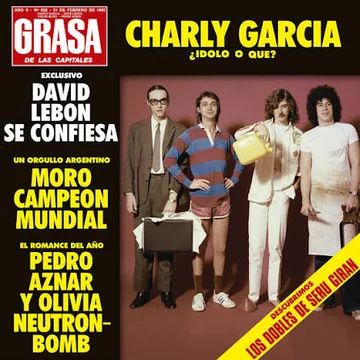
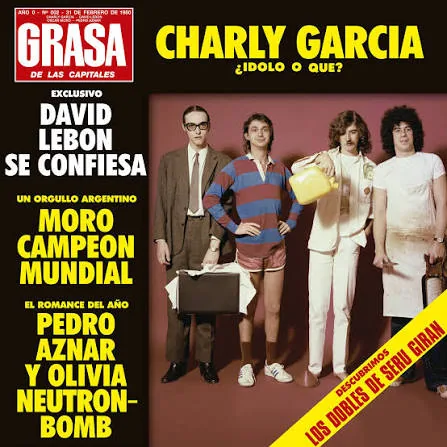
Portadas a todo el ancho y firma sin tapar botones
Películas, discos y libros ocupan todo el ancho de la columna en tres filas con portadas de igual altura por fila, con imágenes regeneradas a mayor resolución. En el pie de Sobre mí los botones reservan el ancho de la firma para que no la tape en el teléfono.

diff --git a/otras-cosas.html b/otras-cosas.html
@@ -22,7 +22,7 @@
 <link rel="preconnect" href="https://fonts.googleapis.com">
 <link rel="preconnect" href="https://fonts.gstatic.com" crossorigin>
 <link href="https://fonts.googleapis.com/css2?family=Geist:wght@400;500;600;700&family=Geist+Mono:wght@400;500;600&display=swap" rel="stylesheet">
-<link rel="stylesheet" href="assets/site.css?v=4">
+<link rel="stylesheet" href="assets/site.css?v=5">
 </head>
 <body data-page="otras-cosas">
 
@@ -102,31 +102,31 @@
         <div class="shelf-group">
           <h2 class="shelf-label">Películas</h2>
           <ul class="shelf">
-            <li><figure><img src="images/gustos/el-padrino.webp" alt="" width="243" height="360" loading="lazy"><figcaption>El Padrino</figcaption></figure></li>
-            <li><figure><img src="images/gustos/into-the-wild.webp" alt="" width="244" height="360" loading="lazy"><figcaption>Into the Wild</figcaption></figure></li>
-            <li><figure><img src="images/gustos/rocky.webp" alt="" width="237" height="360" loading="lazy"><figcaption>Rocky</figcaption></figure></li>
+            <li style="--r:675"><figure><img src="images/gustos/el-padrino.webp" alt="" width="405" height="600" loading="lazy"><figcaption>El Padrino</figcaption></figure></li>
+            <li style="--r:678"><figure><img src="images/gustos/into-the-wild.webp" alt="" width="407" height="600" loading="lazy"><figcaption>Into the Wild</figcaption></figure></li>
+            <li style="--r:658"><figure><img src="images/gustos/rocky.webp" alt="" width="395" height="600" loading="lazy"><figcaption>Rocky</figcaption></figure></li>
           </ul>
         </div>
         <div class="shelf-group">
           <h2 class="shelf-label">Discos</h2>
           <ul class="shelf">
-            <li><figure><img src="images/gustos/la-grasa-de-las-capitales.webp" alt="" width="360" height="360" loading="lazy"><figcaption>La grasa de las capitales</figcaption></figure></li>
-            <li><figure><img src="images/gustos/dark-side-of-the-moon.webp" alt="" width="360" height="360" loading="lazy"><figcaption>The Dark Side of the Moon</figcaption></figure></li>
-            <li><figure><img src="images/gustos/after-chabon.avif" alt="" width="640" height="640" loading="lazy"><figcaption>After Chabón</figcaption></figure></li>
+            <li style="--r:1000"><figure><img src="images/gustos/la-grasa-de-las-capitales.webp" alt="" width="447" height="447" loading="lazy"><figcaption>La grasa de las capitales</figcaption></figure></li>
+            <li style="--r:1000"><figure><img src="images/gustos/dark-side-of-the-moon.webp" alt="" width="450" height="450" loading="lazy"><figcaption>The Dark Side of the Moon</figcaption></figure></li>
+            <li style="--r:1000"><figure><img src="images/gustos/after-chabon.avif" alt="" width="640" height="640" loading="lazy"><figcaption>After Chabón</figcaption></figure></li>
           </ul>
         </div>
         <div class="shelf-group">
           <h2 class="shelf-label">Libros</h2>
           <ul class="shelf">
-            <li><figure><img src="images/gustos/el-hombre-mediocre.webp" alt="" width="257" height="360" loading="lazy"><figcaption>El hombre mediocre</figcaption></figure></li>
-            <li><figure><img src="images/gustos/recuerdos-de-un-medico-rural.webp" alt="" width="243" height="360" loading="lazy"><figcaption>Recuerdos de un médico rural</figcaption></figure></li>
-            <li><figure><img src="images/gustos/el-inversor-inteligente.webp" alt="" width="238" height="360" loading="lazy"><figcaption>El inversor inteligente</figcaption></figure></li>
+            <li style="--r:713"><figure><img src="images/gustos/el-hombre-mediocre.webp" alt="" width="428" height="600" loading="lazy"><figcaption>El hombre mediocre</figcaption></figure></li>
+            <li style="--r:673"><figure><img src="images/gustos/recuerdos-de-un-medico-rural.webp" alt="" width="404" height="600" loading="lazy"><figcaption>Recuerdos de un médico rural</figcaption></figure></li>
+            <li style="--r:661"><figure><img src="images/gustos/el-inversor-inteligente.webp" alt="" width="238" height="360" loading="lazy"><figcaption>El inversor inteligente</figcaption></figure></li>
           </ul>
         </div>
       </div>
     </main>
 
-    <footer class="reveal">
+    <footer class="reveal signed">
       <hr>
       <div class="footer-actions">
         <button class="ghost-btn magnetic" id="vcard-btn">Guardar contacto</button>

diff --git a/assets/site.css b/assets/site.css
@@ -206,24 +206,32 @@ article + article{margin-top:1.7rem;}
   .split-side{float:right;width:340px;max-width:none;margin:0 0 1rem 2rem;}
 }
 
-/* películas, discos y libros: tres filas, todas las portadas a la misma altura */
+/* películas, discos y libros: tres filas de tres portadas. Cada fila ocupa todo el ancho de la columna, de línea a línea
+   como el texto (640px en pantalla grande, el ancho menos los 24px de margen en el teléfono), y las portadas de una
+   misma fila tienen la misma altura. El ancho de cada portada es proporcional a su relación ancho/alto (--r, x1000, en
+   el style de cada li), así que a igual altura la fila queda justo del ancho de la columna. Las filas de películas y
+   libros quedan más altas que la de discos porque los discos son cuadrados y con tres alcanza el ancho antes. */
 .gustos{margin-top:2.4rem;clear:both;}
 .shelf-group + .shelf-group{margin-top:1.9rem;}
 .shelf-label{
   font-family:var(--font-mono);font-size:.74rem;font-weight:500;letter-spacing:.08em;
   text-transform:uppercase;color:var(--ink-faint);margin:0 0 .8rem;
 }
-.shelf{
-  --h:min(170px, calc((100vw - 48px - 2rem) / 3));
-  list-style:none;margin:0;padding:0;display:flex;align-items:flex-start;gap:1rem;
-}
-.shelf figure{margin:0;width:min-content;}
-.shelf img{display:block;height:var(--h);width:auto;border-radius:6px;border:1px solid var(--line);}
+.shelf{list-style:none;margin:0;padding:0;display:flex;align-items:flex-start;gap:1rem;}
+.shelf li{flex:var(--r) 1 0%;min-width:0;}
+.shelf figure{margin:0;}
+/* el marco es un contorno hacia adentro (no un borde) para que no sume píxeles y las portadas de una fila midan lo mismo de alto */
+.shelf img{display:block;width:100%;height:auto;border-radius:6px;outline:1px solid var(--line);outline-offset:-1px;}
 .shelf figcaption{margin-top:.5rem;font-size:.78rem;line-height:1.35;color:var(--ink-soft);}
 
-/* firma: esquina inferior derecha, encima de la última línea de la página (sin ocupar espacio propio) */
+/* firma: esquina inferior derecha, encima de la última línea de la página (sin ocupar espacio propio).
+   Se le reserva su ancho a la derecha de los botones del pie (.footer-actions): si no entran al lado de la firma, pasan
+   a la línea de abajo. Así en el teléfono la firma no tapa el botón "Atajos de teclado", como pasa en pantalla grande,
+   donde los botones entran de sobra. En pantallas muy angostas la firma se achica (38vw) para no chocar con ellos. */
+footer.signed{--sig:min(150px,38vw);}
+footer.signed .footer-actions{padding-right:calc(var(--sig) + 1rem);}
 .signature{position:absolute;right:0;bottom:1rem;z-index:3;pointer-events:none;}
-.signature img{width:150px;height:auto;display:block;mix-blend-mode:multiply;}
+.signature img{width:var(--sig,150px);height:auto;display:block;mix-blend-mode:multiply;}
 @media (prefers-color-scheme: dark){
   :root:not([data-theme="light"]) .signature img{mix-blend-mode:screen;filter:invert(1);}
 }

diff --git a/index.html b/index.html
@@ -22,7 +22,7 @@
 <link rel="preconnect" href="https://fonts.googleapis.com">
 <link rel="preconnect" href="https://fonts.gstatic.com" crossorigin>
 <link href="https://fonts.googleapis.com/css2?family=Geist:wght@400;500;600;700&family=Geist+Mono:wght@400;500;600&display=swap" rel="stylesheet">
-<link rel="stylesheet" href="assets/site.css?v=4">
+<link rel="stylesheet" href="assets/site.css?v=5">
 
 <script type="application/ld+json">
 {

diff --git a/README.md b/README.md
@@ -16,7 +16,7 @@ Sitio estático de dos páginas, sin dependencias ni build. Se abre haciendo dob
 ├── images/
 │   ├── me.jpg            # foto del avatar (perfil)
 │   ├── firma.png         # firma (pie de "Sobre mí")
-│   └── gustos/           # portadas de películas, discos y libros (webp de 360 px de alto, una en avif)
+│   └── gustos/           # portadas de películas, discos y libros (webp de hasta 600 px de alto, una en avif)
 ├── .nojekyll             # le dice a GitHub Pages que publique los archivos tal cual
 ├── .gitignore            # deja afuera de GitHub lo que no es del sitio
 │
@@ -30,8 +30,16 @@ Sitio estático de dos páginas, sin dependencias ni build. Se abre haciendo dob
 
 En "Sobre mí" los reels de Instagram flotan a la derecha (`.split-side`, en pantallas de 880 px o más) y el
 texto corre continuo y los rodea: junto al reel es más angosto y apenas el reel termina vuelve a ocupar todo el
-ancho. En pantallas más chicas el reel va debajo del párrafo. Las portadas van en tres filas (`.shelf`), todas a
-la misma altura.
+ancho. En pantallas más chicas el reel va debajo del párrafo.
+
+Las portadas van en tres filas de tres (`.shelf`). Cada fila ocupa todo el ancho de la columna, de línea a línea como
+el texto, y las portadas de una misma fila tienen la misma altura: el ancho de cada una es proporcional a su
+relación ancho/alto, que va en el `style="--r:..."` de cada `<li>` (ancho / alto x 1000, por ejemplo 675 para una
+portada de 405 x 600). Al agregar una portada hay que poner ese número. Por eso las filas de películas y libros
+quedan más altas que la de discos: los discos son cuadrados y con tres alcanza el ancho antes.
+
+En el pie de "Sobre mí" la firma flota abajo a la derecha (`footer.signed`). Los botones del pie reservan a su derecha
+el ancho de la firma (variable `--sig`), así que en el teléfono pasan a dos líneas en vez de quedar tapados por ella.
 
 Las dos páginas cargan el mismo CSS y el mismo JS, así que cualquier cambio de estilo o de
 comportamiento se hace una sola vez y aparece en las dos.
